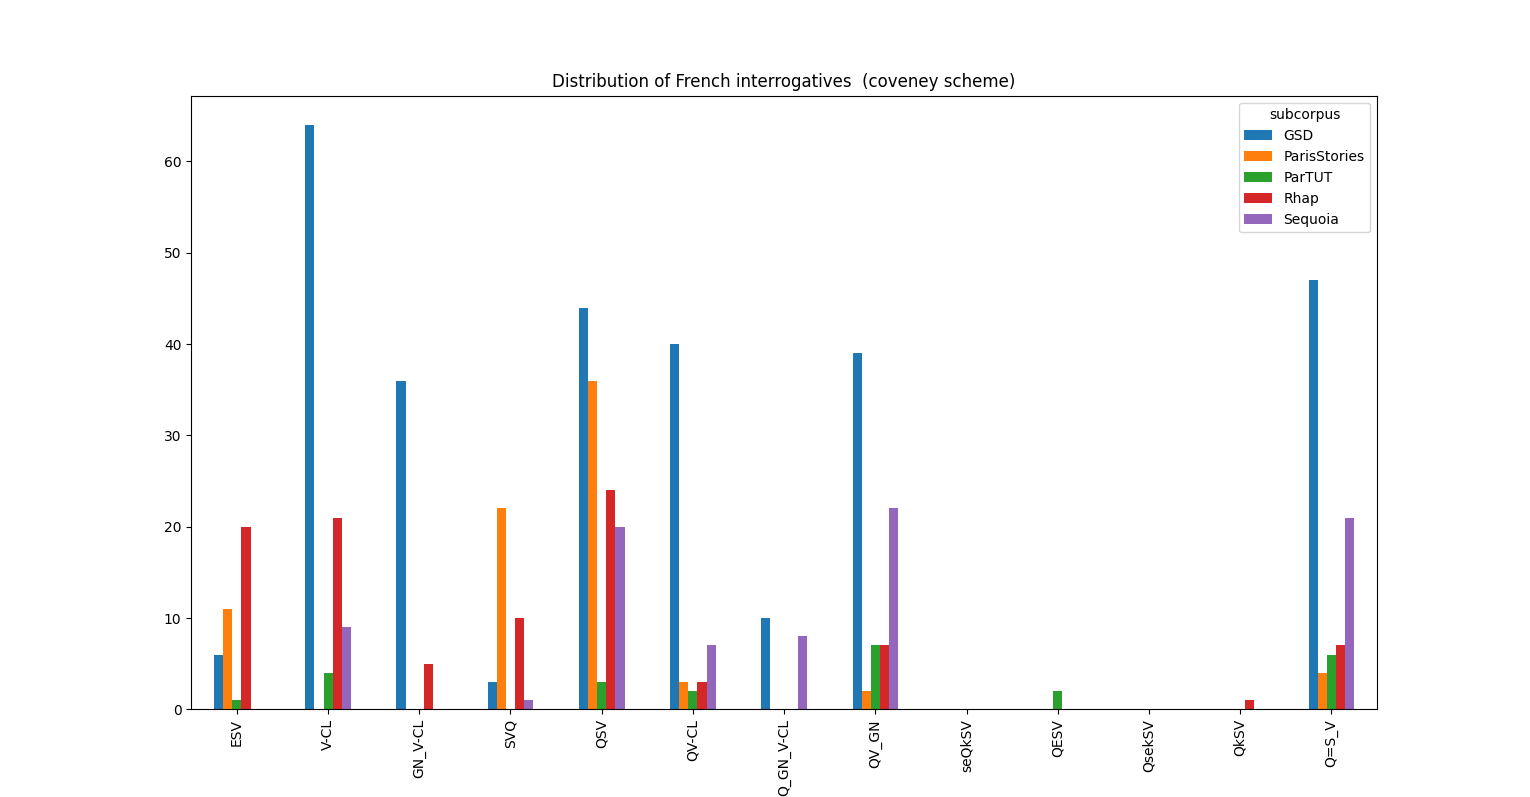
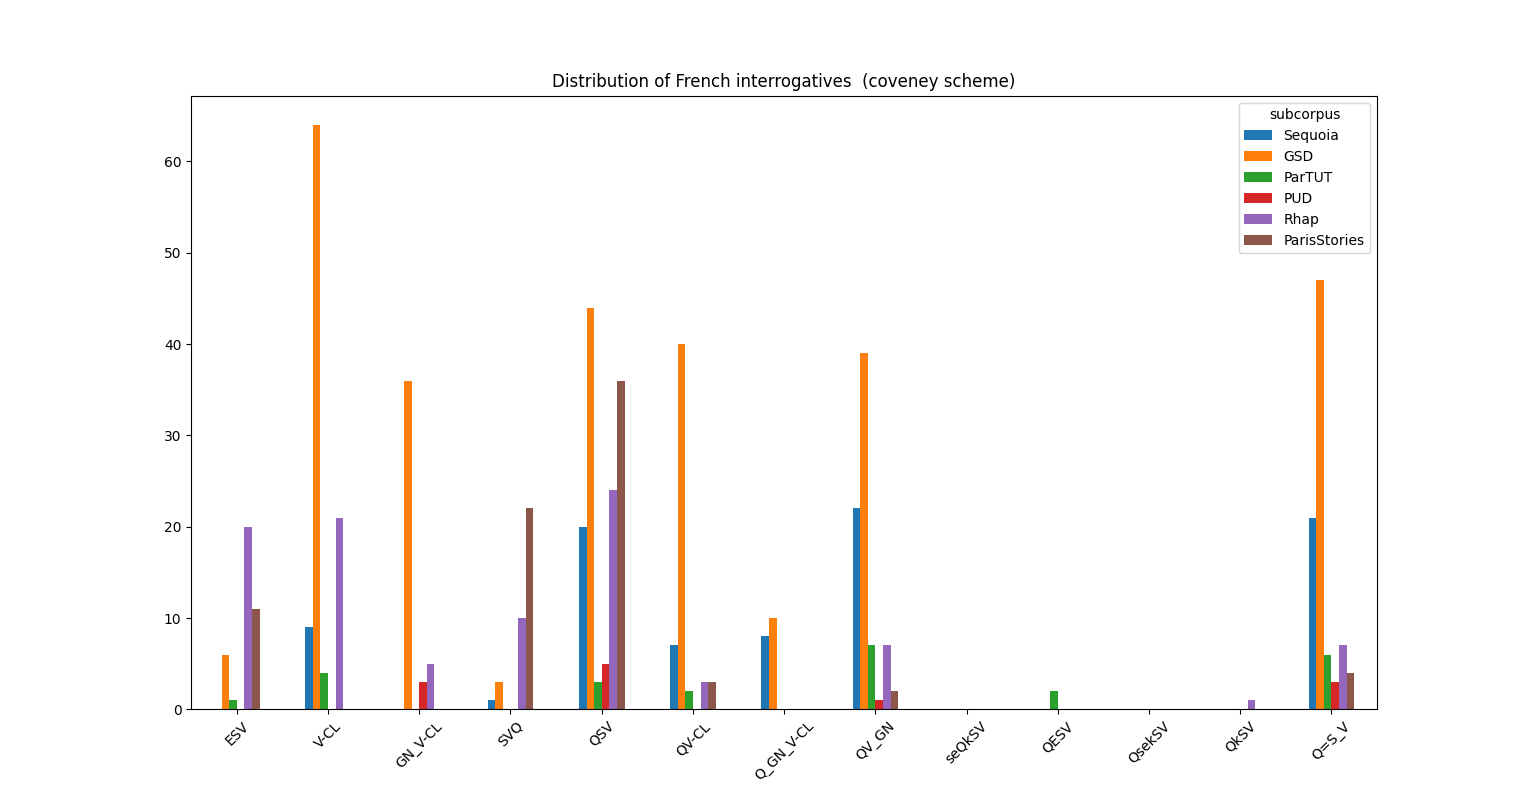
Small additions

diff --git a/stats.py b/stats.py
@@ -71,13 +71,21 @@ parser.add_argument("-s", "--scheme", action="store",
                         choices=SCHEMES.keys(), dest="scheme",
                         default=["coveney"], nargs=1,
                         metavar="SCHEME", help=message)
-message = '''Output format, among: txt (default), csv, json, plot'''
+message = 'Output format, among: txt (default), csv, json, plot'
 parser.add_argument("-f", "--format", action="store",
                         choices=FORMATS, dest="format",
                         default=["txt"], nargs=1,
                         metavar="FORMAT", help=message)
-
-args = parser.parse_args()
+message = 'Subcorpora included, among: '+', '.join(SUBCORPORA)
+parser.add_argument("-i", "--include", action="store",
+                        choices=SUBCORPORA, dest="include",
+                        default=SUBCORPORA, nargs="+",
+                        metavar="SUBCORPUS", help=message)
+message = 'Subcorpora to exclude, among: '+', '.join(SUBCORPORA)
+parser.add_argument("-e", "--exclude", action="store",
+                        choices=SUBCORPORA, dest="exclude",
+                        default=[], nargs="+",
+                        metavar="SUBCORPUS", help=message)
                           
 ##### Utils
 
@@ -103,28 +111,36 @@ def add_totals(df:pd.DataFrame) -> ():
     df.loc[nb,"subcorpus"] = "Total"
 
 
+#### Retrieving arguments
+
+args = parser.parse_args()
+subcorpora = [sc for sc in args.include if sc not in args.exclude]
+scheme = args.scheme[0]
+o_format = args.format[0]
+
 
 #### Main function
-dict = {"subcorpus": SUBCORPORA}
-dict.update({cat:0 for cat in SCHEMES[args.scheme[0]][0].keys()})
+dict = {"subcorpus": subcorpora}
+dict.update({cat:0 for cat in SCHEMES[scheme][0].keys()})
 frame = pd.DataFrame(dict)
 
 corpus = gp.Corpus(args.filenames)
 
 # Computing occurence number par category and subcorpus
-for cat in SCHEMES[args.scheme[0]][0].keys():
-    for i, subcorpus in enumerate(SUBCORPORA):
+for cat in SCHEMES[scheme][0].keys():
+    for i, subcorpus in enumerate(subcorpora):
         frame.at[i,cat] = 0
 
         # Adding the counts of the different requests
         # defined in requests/<scheme>.py
-        for elt_list in cat_req(args.scheme[0], cat):
+        for elt_list in cat_req(scheme, cat):
             request = gp.Request()
             for elt in elt_list:
                 request.append(*elt)
             request.append(*subcorpus_req(subcorpus))
             try:
                 frame.at[i,cat] += corpus.count(request)
+                
             except (gp.grew.GrewError,UnicodeDecodeError) as err:
                 print("##### Some error occured at "+cat+" while parsing the request:")
                 print(request)
@@ -136,20 +152,21 @@ add_totals(frame)
 
 ##### Rendering output
 
-if args.format[0] == "csv":
+if o_format == "csv":
     print(frame.to_csv())
 
-elif args.format[0] == "json":
+elif o_format == "json":
     print(frame.to_json())
 
-elif args.format[0] == "plot":
+elif o_format == "plot":
     
     # ploting all corpora on the same plot
     title = "Distribution of French interrogatives "
     title += " ("+args.scheme[0]+" scheme)"
     frame.index = frame["subcorpus"]
-    frame = frame[1:-1].T[1:-1] # removing FQB
+    frame = frame[:-1].T[1:-1] # removing totals
     frame.plot(kind='bar', title=title)
+    plt.xticks(rotation = 45)
     plt.show()
 
 else:
